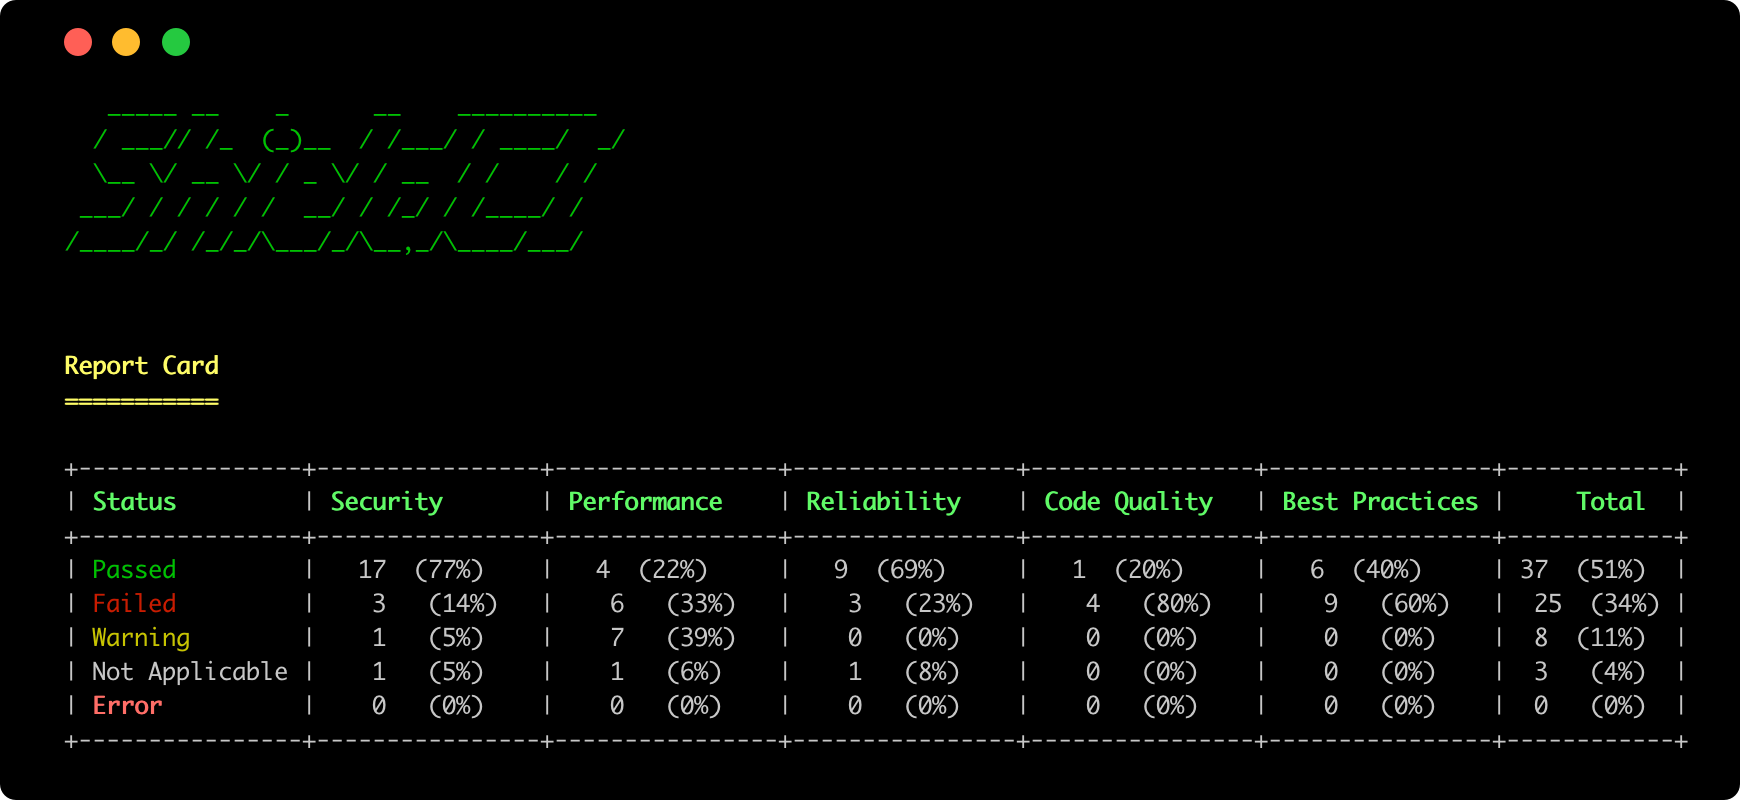
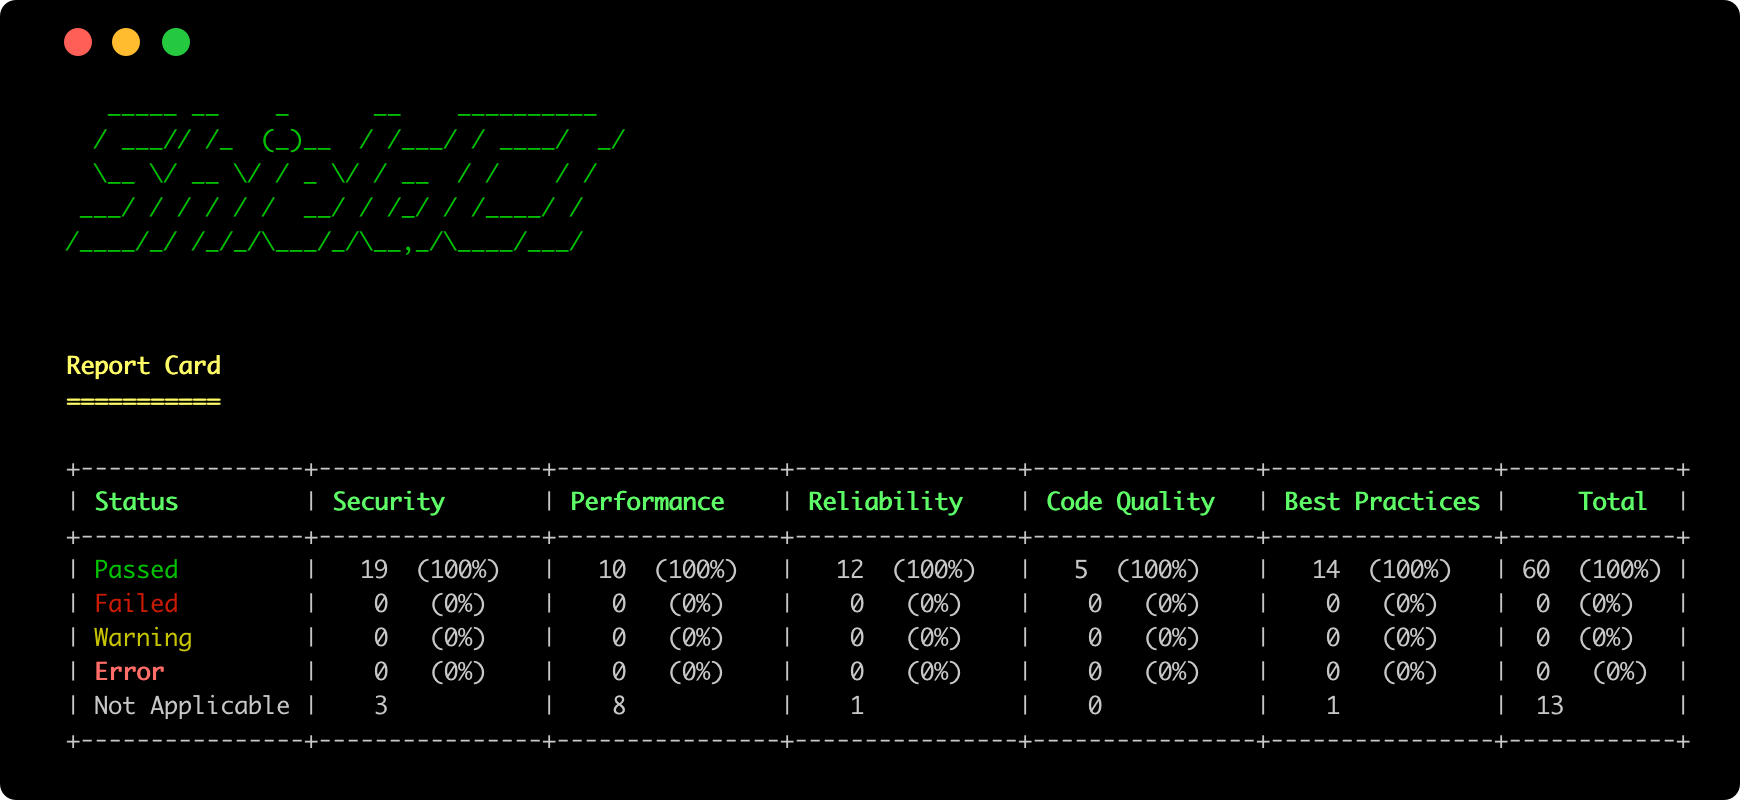
Updated analysis report card

diff --git a/docs/getting-started/first-analysis.md b/docs/getting-started/first-analysis.md
@@ -55,8 +55,8 @@ After displaying all issues, ShieldCI shows a Report Card with analyzer results 
 - **Passed:** Analyzers that found no issues
 - **Failed:** Analyzers that found Critical or High severity issues
 - **Warning:** Analyzers that found Medium or Low severity issues
-- **Not Applicable:** Analyzers skipped because they don't apply to your project (e.g., MySQL analyzer when using PostgreSQL)
 - **Error:** Analyzers that encountered exceptions during execution
+- **Not Applicable:** Analyzers skipped because they don't apply to your project (e.g., MySQL analyzer when using PostgreSQL)
 
 ### Exit Codes
 
@@ -172,14 +172,6 @@ Medium or Low severity issues detected. Address when convenient.
 
 **Examples:** Missing DocBlocks, Unnamed routes, Minor formatting issues
 
-### ⊘ Not Applicable
-Analyzer doesn't apply to your project configuration.
-
-**Examples:**
-- MySQL optimization analyzer when using PostgreSQL
-- Horizon analyzer when not using Laravel Horizon
-- Frontend dependency analyzer when no package.json exists
-
 ### ⚠️ Error
 Analyzer encountered an unexpected error during execution. This typically indicates:
 - Missing dependencies or configuration
@@ -187,6 +179,14 @@ Analyzer encountered an unexpected error during execution. This typically indica
 - Corrupted project files
 
 **Action:** Check the error message and verify your project setup.
+
+### ⊘ Not Applicable
+Analyzer doesn't apply to your project configuration.
+
+**Examples:**
+- MySQL optimization analyzer when using PostgreSQL
+- Horizon analyzer when not using Laravel Horizon
+- Frontend dependency analyzer when no package.json exists
 
 ## Step 4: Fixing Your First Issue
 
@@ -346,23 +346,6 @@ No known vulnerabilities in Composer dependencies
 
 ## Step 7: Export Results
 
-### JSON Export (for automation)
-
-```bash
-php artisan shield:analyze --format=json > results.json
-```
-
-**Use in scripts:**
-```bash
-# Check if critical issues exist
-CRITICAL=$(cat results.json | jq '.summary.critical')
-
-if [ $CRITICAL -gt 0 ]; then
-    echo "❌ Critical issues found - blocking deployment"
-    exit 1
-fi
-```
-
 ### JSON Report Export
 
 ```bash
@@ -396,35 +379,6 @@ protected function schedule(Schedule $schedule)
              ->at('09:00');
 }
 ```
-
-### CI/CD Integration
-
-**GitHub Actions (.github/workflows/shieldci.yml):**
-```yaml
-name: Security Analysis
-
-on: [push, pull_request]
-
-jobs:
-  security:
-    runs-on: ubuntu-latest
-    steps:
-      - uses: actions/checkout@v3
-
-      - name: Setup PHP
-        uses: shivammathur/setup-php@v2
-        with:
-          php-version: 8.1
-
-      - name: Install Dependencies
-        run: composer install --no-dev
-
-      - name: Run ShieldCI
-        run: php artisan shield:analyze --ci --format=json
-```
-
-This runs ShieldCI on every commit, blocking merges if critical issues are found.
-
 
 ## Next Steps
 